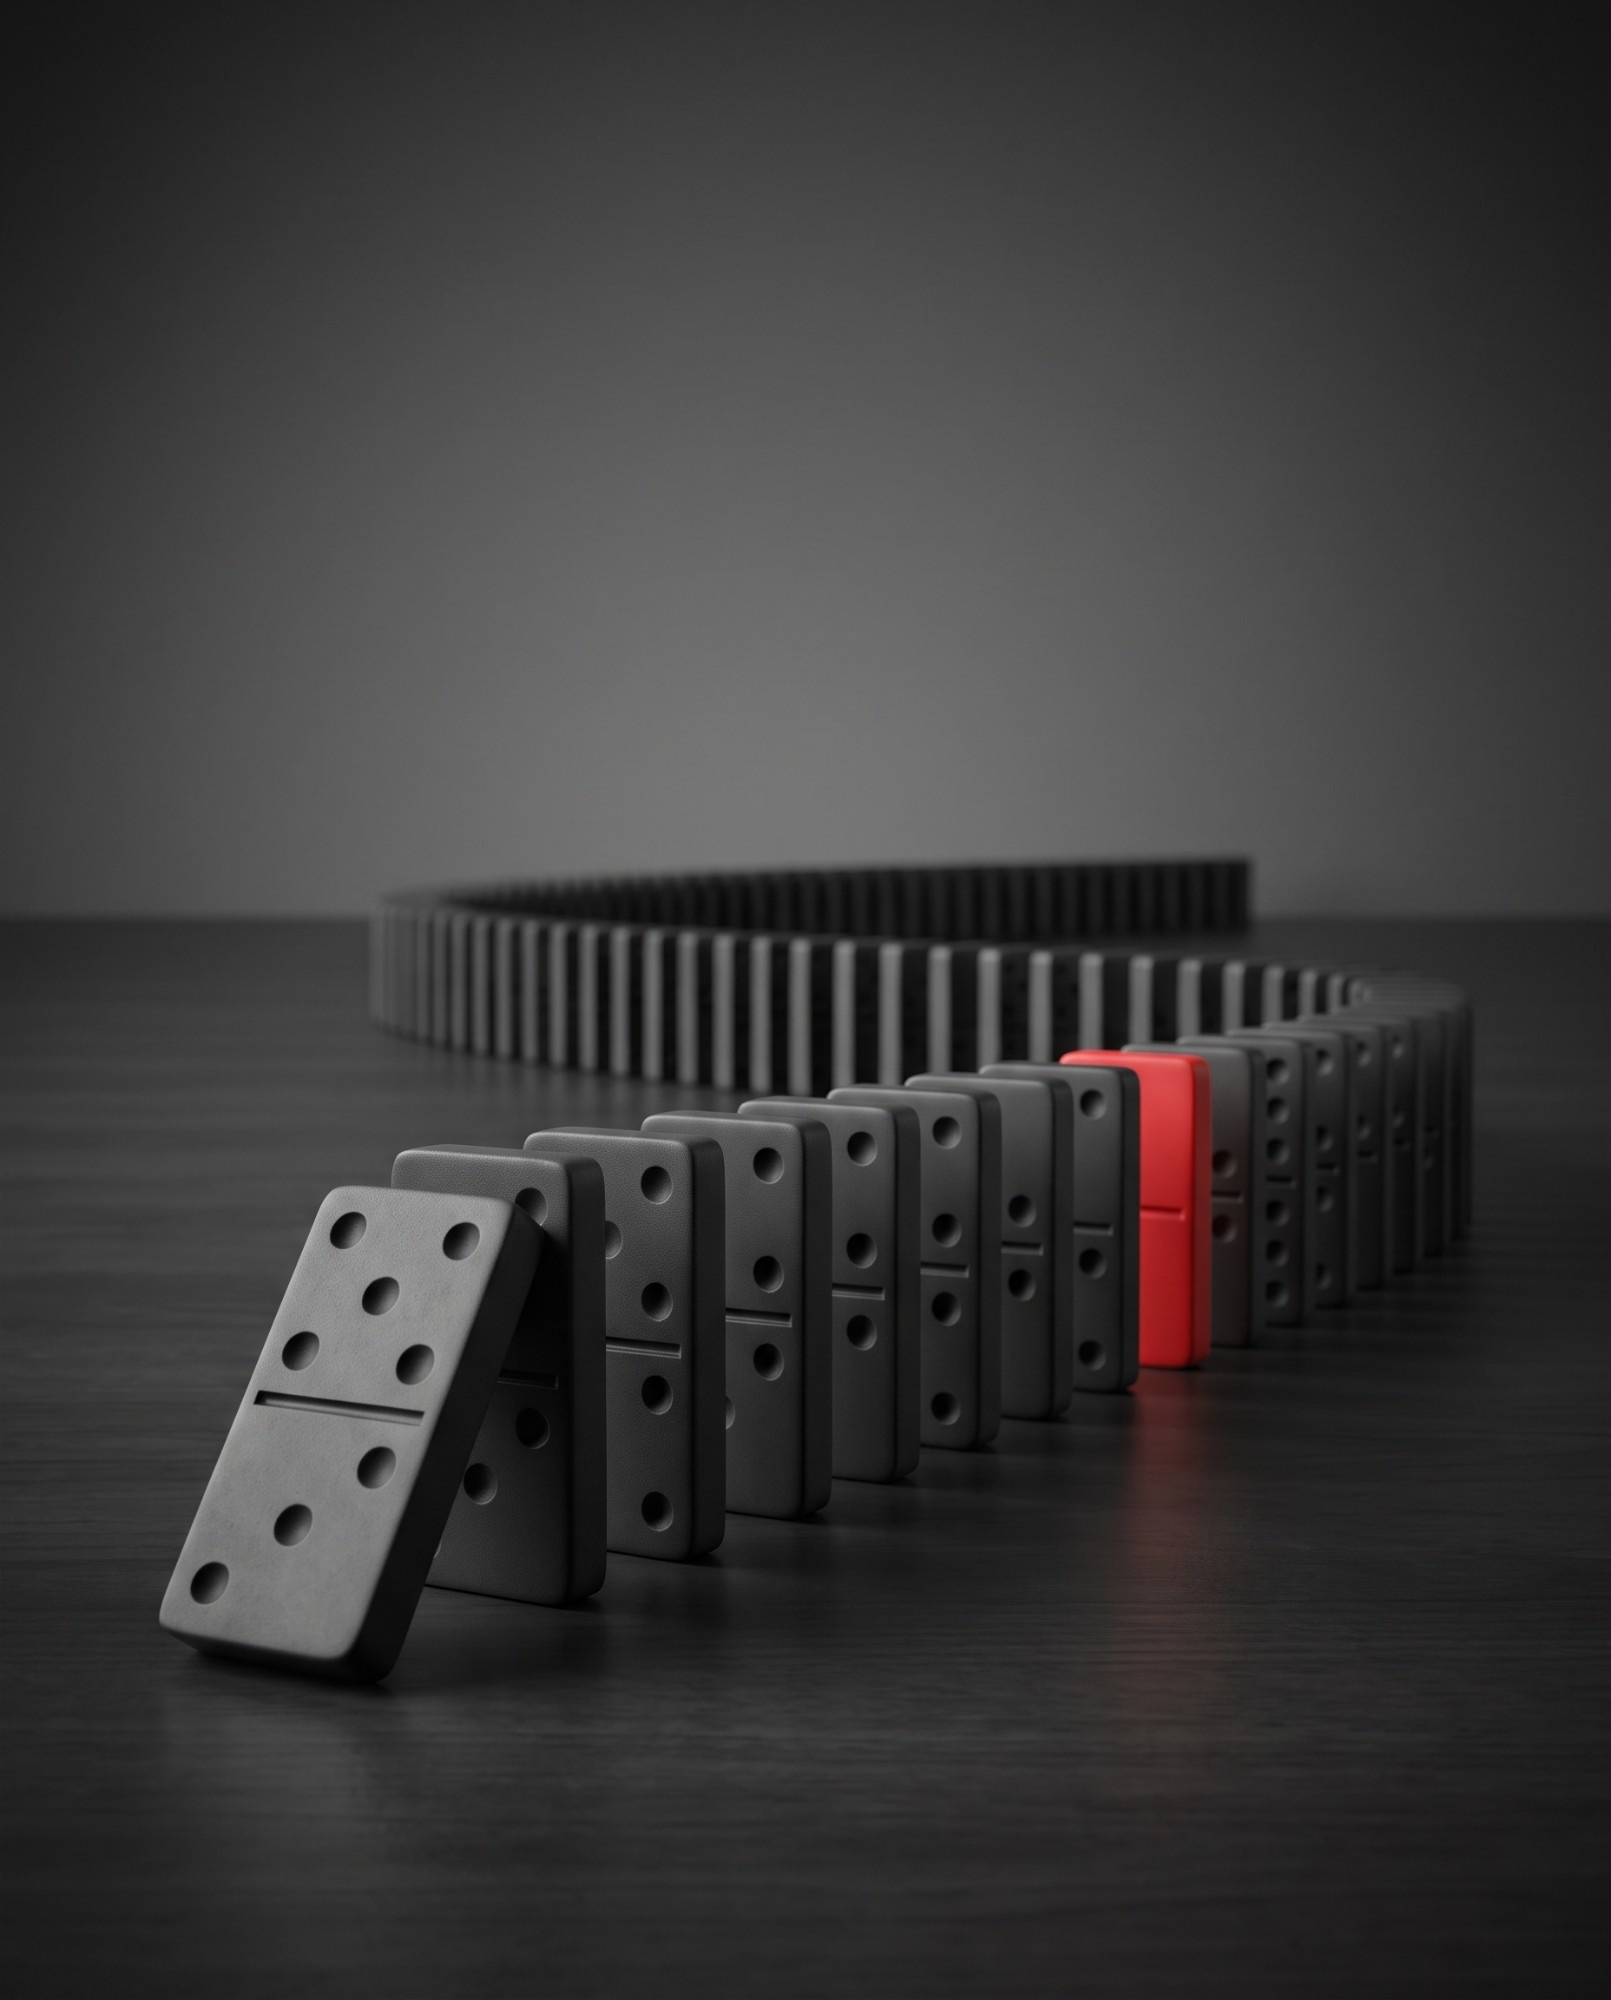
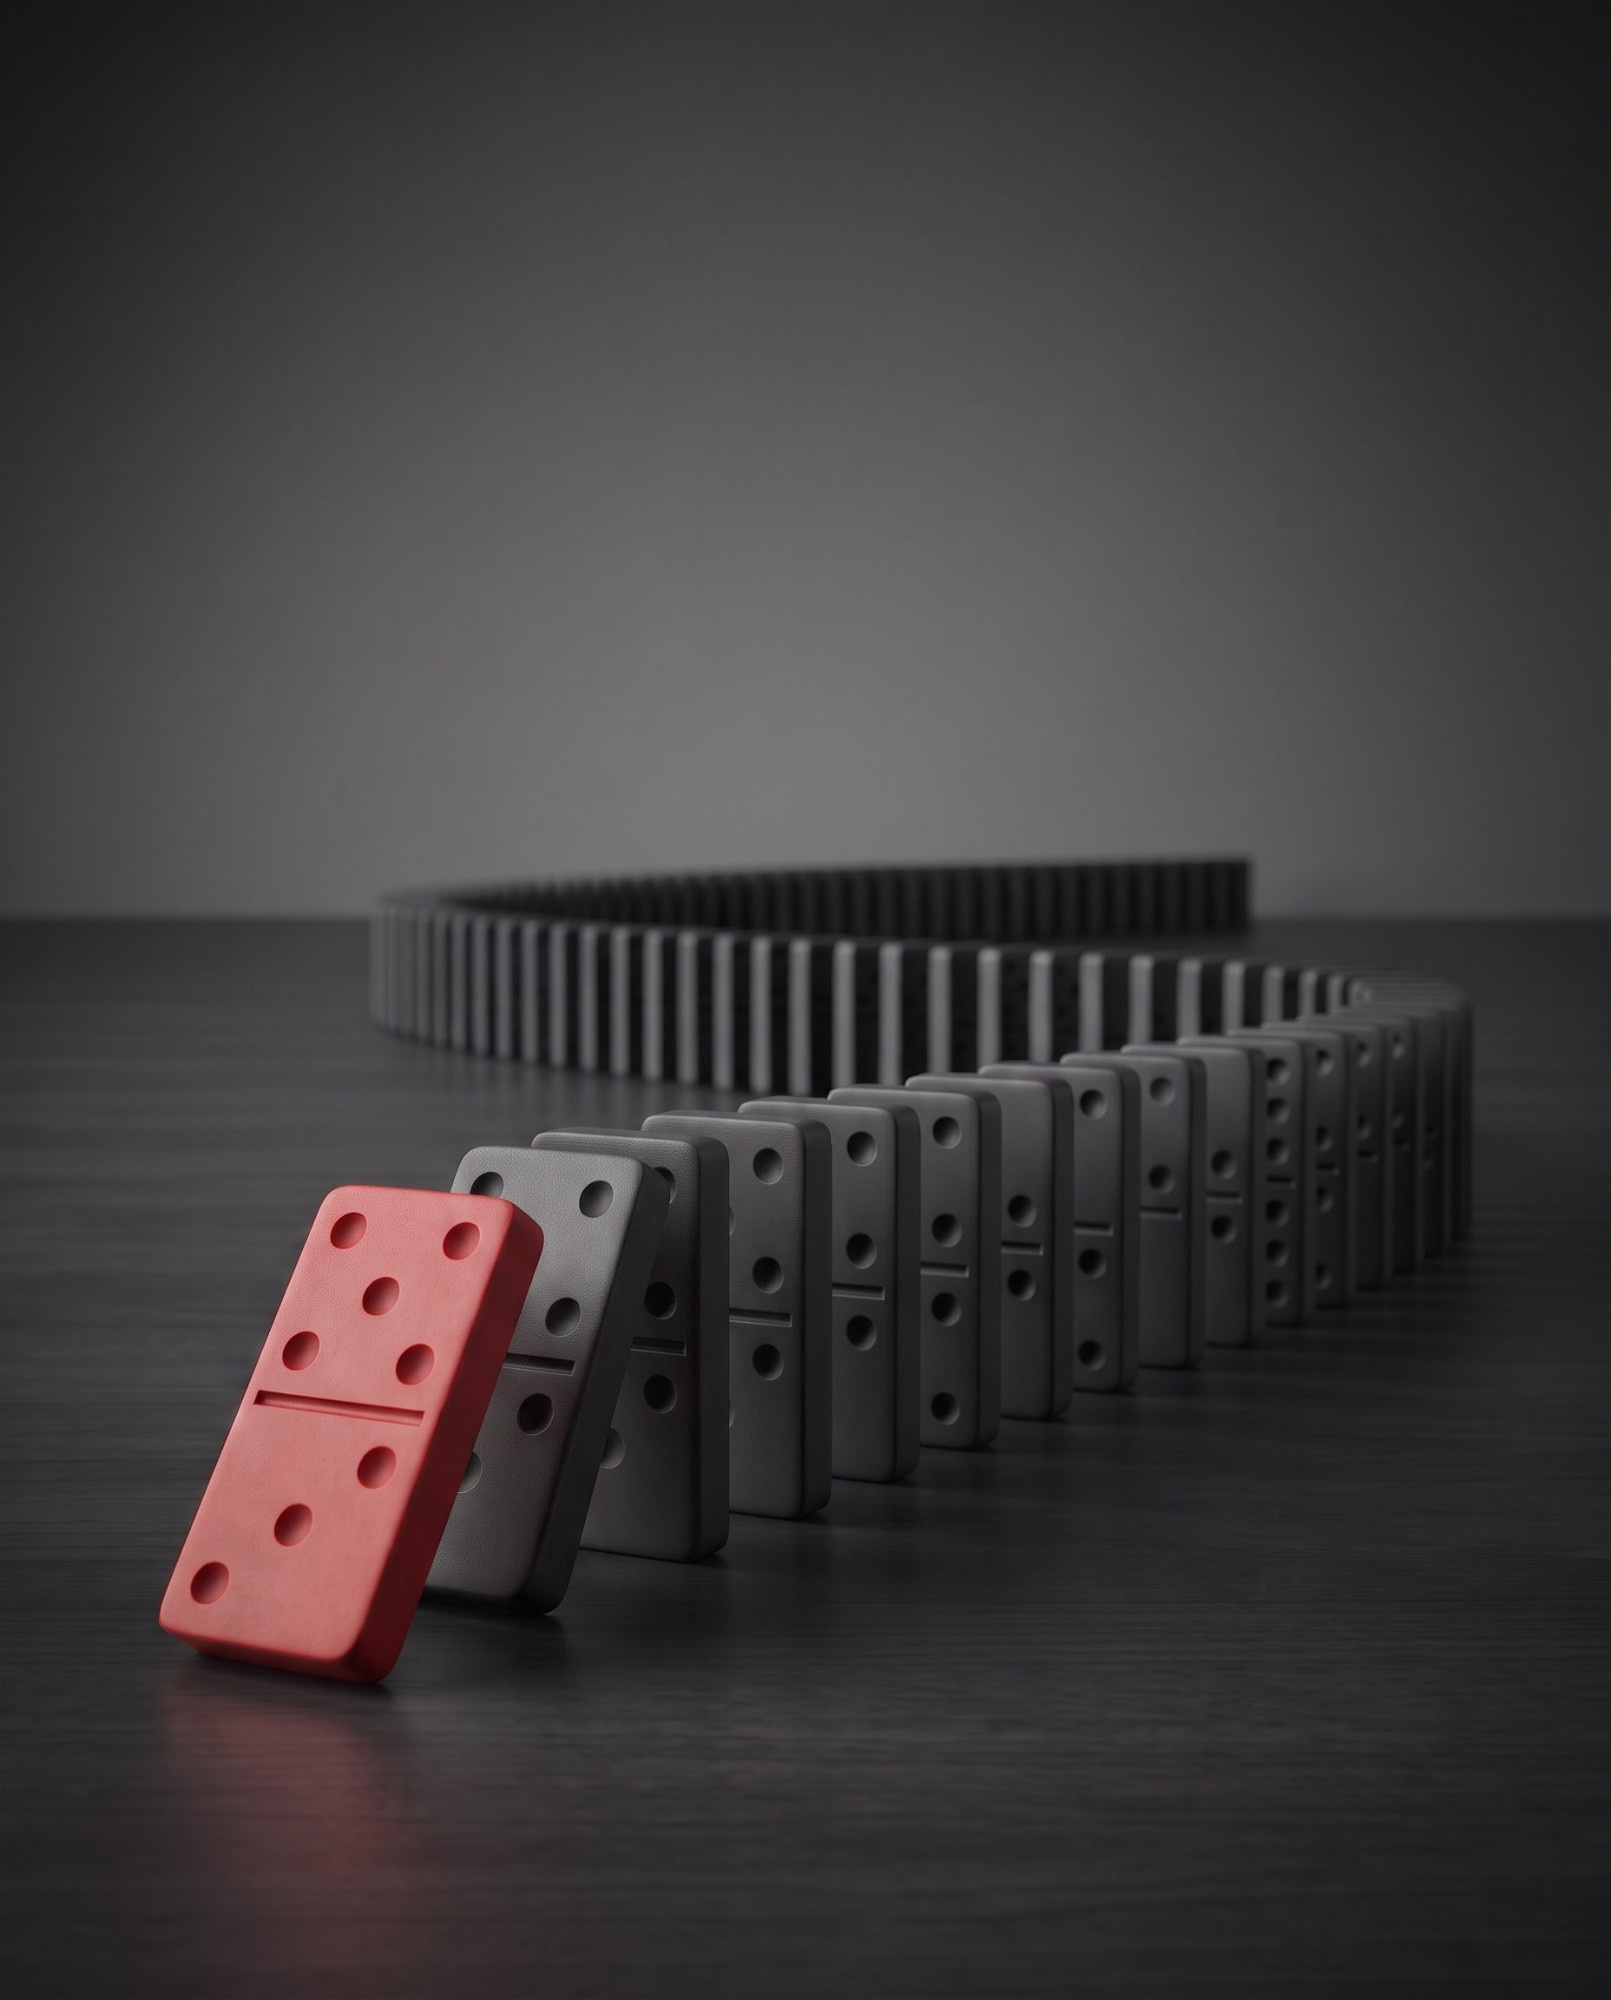
social: the dominoes frame, better than asked for
I asked for the red domino to be the one the cascade reaches. What came
back is the one that starts it: red has already fallen and is taking the
whole row with it. That is the proposition exactly — a question arises
in one area and knocks over everything else — so the note is corrected
rather than the frame.

Mean 61, top 64, contrast 29: in the band with the rest of the set.

Claude-Session: https://claude.ai/code/session_01Dittaoy8DRLNsQGyiPx6fs

Changed region(s): [[0.0931, 0.558, 0.4345, 0.961], [0.6518, 0.527, 0.7759, 0.806], [0.3104, 0.806, 0.3414, 0.837]]

diff --git a/social/prompts/REBUILD-DARK.md b/social/prompts/REBUILD-DARK.md
@@ -471,9 +471,10 @@ python3.12 -c "from PIL import Image,ImageStat;print(round(ImageStat.Stat(Image.
 красный кабель повторяет форму соседей и отличается только цветом, а
 разъёма нет вовсе.
 
-**Домино** сдвинулось по смыслу: красная костяшка теперь та, которая
-сейчас заваливается, а не та, до которой ещё не дошло. Карточка про
-передачу, и момент передачи должен быть на красном.
+**Домино** сдвинулось по смыслу, и дальше, чем я просил. Я хотел, чтобы
+красная костяшка была той, которую сейчас сбивают. Пришла та, которая
+сбивает: красная упала первой и валит на себя весь ряд. Это точнее —
+вопрос возникает в одной области и роняет всё остальное, а не наоборот.
 
 **Ящики остаются как есть, а число уходит из заголовка.** В кадре их
 около тридцати, а заголовок говорил «семь операционных сервисов». Стена
